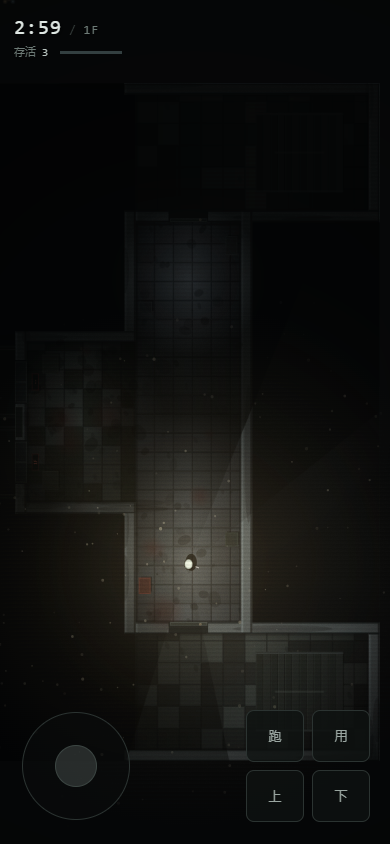
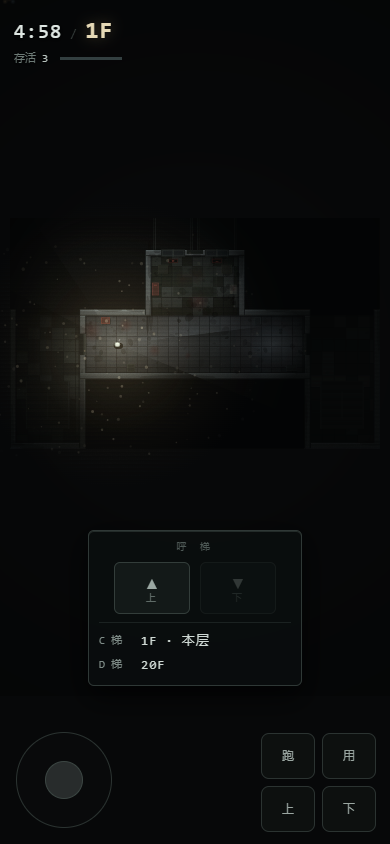
fix(v1.6): 手机版取消竖屏90度旋转，底部独立控制条不再遮挡地形，横屏呼梯面板压缩成横条

diff --git a/styles.css b/styles.css
@@ -30,6 +30,8 @@ html, body {
 
 #app { position: fixed; inset: 0; }
 #stage { position: absolute; inset: 0; width: 100%; height: 100%; display: block; }
+/* 底部控制条高度：画布让出这块，按钮就不会盖住地形 */
+:root { --ctl: 0px; }
 
 /* ---------------- HUD ---------------- */
 #hud {
@@ -125,7 +127,7 @@ body.touch .touchonly { display: block; }
   background: rgba(14, 18, 17, .78); border: 1px solid #2b3331; border-radius: 8px;
 }
 #btns .tb.on { background: rgba(90, 100, 95, .4); color: #e2eae6; }
-body.in-car #btns { display: none; }
+body.inCar #btns { display: none; }
 
 /* ---------------- 结算 ---------------- */
 #overlay {
@@ -184,20 +186,51 @@ body.in-car #btns { display: none; }
 
 /* ---------------- 竖屏 ---------------- */
 @media (max-width: 820px), (orientation: portrait) {
+  /* 竖屏：画面保持正向，底部让出 148px 给操作区 */
+  :root { --ctl: 148px; }
+  #stage { top: 0; left: 0; right: 0; width: 100%; height: calc(100vh - var(--ctl)); }
+
   #clock { font-size: 20px; }
-  #hint { bottom: 150px; font-size: 11px; }
-  #carPanel {
-    right: 8px; top: auto; bottom: 150px; transform: none;
-    width: 168px; padding: 9px;
+  #floorNo { font-size: 24px; }
+
+  /* 提示挪到画布上沿，别占操作区 */
+  #hint {
+    bottom: auto; top: 62px; left: 50%; transform: translateX(-50%);
+    max-width: 92vw; font-size: 11px;
   }
-  #carFloors { gap: 4px; }
-  #carFloors .cf { height: 26px; font-size: 10px; }
+
+  /* 摇杆 / 按键全部落进底部控制条 */
+  #joy { left: 16px; bottom: 16px; width: 96px; height: 96px; }
+  #joy i { width: 38px; height: 38px; margin: -19px 0 0 -19px; }
+  #btns {
+    right: 14px; bottom: 12px;
+    grid-template-columns: repeat(2, 54px); gap: 7px;
+  }
+  #btns .tb { height: 46px; font-size: 12px; }
+
+  /* 面板也放进控制条 */
+  #callPanel, #stairPanel {
+    left: 50%; transform: translateX(-50%);
+    bottom: calc(var(--ctl) + 8px);
+  }
+  #carPad { left: 16px; bottom: 12px; width: 112px; height: 112px; }
+  #carPad .cpad { width: 36px; height: 36px; font-size: 13px; }
+  #carPad [data-cm="up"] { left: 38px; }
+  #carPad [data-cm="down"] { left: 38px; }
+  #carPad [data-cm="left"] { top: 38px; }
+  #carPad [data-cm="right"] { top: 38px; }
+
+  #carPanel {
+    right: 8px; top: auto; bottom: calc(var(--ctl) + 8px); transform: none;
+    width: 172px; padding: 9px;
+    max-height: calc(100vh - var(--ctl) - 20px); overflow: auto;
+  }
 }
 
 
 /* ---------- 呼梯面板（靠近电梯出现） ---------- */
 #callPanel {
-  position: absolute; left: 50%; transform: translateX(-50%); bottom: 132px;
+  position: absolute; left: 50%; transform: translateX(-50%); bottom: calc(var(--ctl) + 132px);
   width: 214px; padding: 8px 10px 9px;
   background: rgba(10, 13, 13, .92);
   border: 1px solid #2f3836; border-radius: 6px;
@@ -262,7 +295,7 @@ body.in-car #btns { display: none; }
 
 /* ---------- 楼梯面板 ---------- */
 #stairPanel {
-  position: absolute; left: 50%; transform: translateX(-50%); bottom: 132px;
+  position: absolute; left: 50%; transform: translateX(-50%); bottom: calc(var(--ctl) + 132px);
   display: flex; gap: 10px; padding: 9px 12px;
   background: rgba(10, 13, 13, .92);
   border: 1px solid #2f3836; border-radius: 6px;
@@ -302,3 +335,60 @@ body.inCar #joy { display: none; }
 #carPad [data-cm="down"] { left: 45px; bottom: 0; }
 #carPad [data-cm="left"] { left: 0; top: 45px; }
 #carPad [data-cm="right"] { right: 0; top: 45px; }
+
+
+/* ---------------- 竖屏收尾（必须放最后，覆盖默认面板定位） ---------------- */
+@media (max-width: 820px), (orientation: portrait) {
+  body #callPanel, body #stairPanel {
+    left: 50%; transform: translateX(-50%);
+    bottom: calc(var(--ctl) + 10px);
+  }
+  body #carPanel {
+    right: 8px; top: auto; bottom: calc(var(--ctl) + 10px); transform: none;
+  }
+  body #hint { bottom: auto; top: 62px; }
+
+  /* 轿厢方向键也必须在竖屏控制条里（后面默认规则会覆盖，所以这里提权） */
+  body #carPad { left: 16px; bottom: 14px; width: 112px; height: 112px; }
+  #carPad .cpad { width: 36px; height: 36px; font-size: 13px; }
+  body #carPad [data-cm="up"], body #carPad [data-cm="down"] { left: 38px; }
+  body #carPad [data-cm="left"], body #carPad [data-cm="right"] { top: 38px; }
+}
+
+
+/* ---------------- 横屏小屏 ---------------- */
+@media (max-height: 520px) {
+  :root { --ctl: 104px; }
+  #stage { top: 0; left: 0; right: 0; width: 100%; height: calc(100vh - var(--ctl)); }
+  #hint { bottom: auto; top: 54px; left: 50%; transform: translateX(-50%); font-size: 11px; }
+  #joy { left: 12px; bottom: 8px; width: 88px; height: 88px; }
+  #joy i { width: 34px; height: 34px; margin: -17px 0 0 -17px; }
+  #btns { right: 12px; bottom: 6px; grid-template-columns: repeat(2, 50px); gap: 6px; }
+  #btns .tb { height: 42px; font-size: 12px; }
+  body #callPanel, body #stairPanel { bottom: calc(var(--ctl) + 8px); }
+  #carPad { left: 12px; bottom: 6px; width: 100px; height: 100px; }
+  #carPad .cpad { width: 32px; height: 32px; font-size: 12px; }
+  #carPad [data-cm="up"], #carPad [data-cm="down"] { left: 34px; }
+  #carPad [data-cm="left"], #carPad [data-cm="right"] { top: 34px; }
+  body #carPanel { bottom: calc(var(--ctl) + 8px); max-height: calc(100vh - var(--ctl) - 12px); overflow: auto; }
+
+  /* 横屏空间矮：呼梯面板压成一条横的，塞进控制条中间，别盖住地图 */
+  body #callPanel {
+    left: 50%; transform: translateX(-50%);
+    bottom: 8px; width: auto; max-width: 62vw;
+    display: flex; align-items: center; gap: 10px;
+    padding: 6px 10px;
+  }
+  #callPanel .cpTitle { display: none; }
+  #callPanel .cpBtns { margin: 0; gap: 6px; }
+  #callPanel .cpArrow { width: 46px; height: 40px; font-size: 15px; }
+  #callPanel .cpArrow span { font-size: 9px; letter-spacing: 1px; }
+  #callPanel .cpReads { border-top: none; padding-top: 0; display: flex; gap: 12px; }
+  #callPanel .cpReadRow { padding: 0; }
+  #callPanel .cpName { width: auto; }
+  #callPanel .cpRead { font-size: 12px; }
+
+  body #stairPanel { bottom: 8px; padding: 6px 10px; gap: 8px; }
+  #stairPanel .stBtn { width: 62px; height: 40px; font-size: 15px; }
+  #stairPanel .stBtn span { font-size: 9px; }
+}

diff --git a/js/render.js b/js/render.js
@@ -90,8 +90,9 @@ var Render = (function () {
     } else {
       b = { x: g.minX, y: g.viewMinY, w: g.width, h: g.viewHeight };
     }
-    var rotate = H > W * 1.12;
-    var availW = W - 20, availH = H - 20;
+    /* 竖屏也不再旋转画面：楼道永远是同一个朝向 */
+    var rotate = false;
+    var availW = W - (W < 640 ? 8 : 20), availH = H - (H < 640 ? 8 : 20);
     var s = rotate ? Math.min(availH / b.w, availW / b.h) : Math.min(availW / b.w, availH / b.h);
     view = {
       s: s,

diff --git a/js/config.js b/js/config.js
@@ -9,7 +9,7 @@
 
 var CFG = {
   /* ---------- 版本 ---------- */
-  VERSION: "v1.5",
+  VERSION: "v1.6",
   TITLE: "电梯公寓大逃杀 2",
 
   /* ---------- 楼体（★ 与美术/版面直接相关） ---------- */

diff --git a/DEV.md b/DEV.md
@@ -141,6 +141,15 @@ KILLER.thinkSec: 0.22   // 决策间隔
 - 进轿厢时给 `<body>` 加 `inCar` 类，`styles.css` 用它隐藏摇杆（`body.inCar #joy{display:none}`）。
 - 想改键位/大小：`styles.css` 的 `#carPad` 与 `.cpad`。
 
+## 1.35 移动端布局（v1.6）
+
+- `styles.css` 顶部有一个变量 `:root{--ctl:0px}`，竖屏媒体查询里改成 `148px`，横屏小屏 `104px`。
+- 画布尺寸跟着它走：`#stage{ height: calc(100vh - var(--ctl)) }`。**注意** `#stage` 上有 `height:100%`，只改 `inset` 是无效的，必须显式写 height。
+- 所有浮层都用 `bottom: calc(var(--ctl) + N)` 定位，保证落在操作条里。
+- 面板的默认规则写在文件靠后，所以竖屏覆盖要用更高优先级（`body #callPanel`），或者把覆盖块放到文件最后。
+- 旋转已关闭：`render.js` 的 `layout()` 里 `var rotate = false;`（代码保留，想恢复改回去即可）。
+- 进轿厢时 JS 给 `<body>` 加 `inCar`（驼峰），CSS 里请用 `body.inCar`。
+
 ## 2. 想改难度：只动这 5 个
 
 ```js

diff --git a/README.md b/README.md
@@ -14,6 +14,14 @@
 
 ---
 
+## v1.6 变更（手机版）
+
+- **取消竖屏 90° 旋转**：手机上画面和电脑一样是正的，楼道永远同一个朝向。
+- **控制区独立**：竖屏底部留出 148px、横屏小屏留出 104px 作为操作条，画布不再被按钮压住；摇杆、四个按键、轿厢方向键、呼梯/楼梯面板全部落在操作条里。
+- **提示**改成画布上沿的一行小字，不再占用地形。
+- 横屏空间矮的时候，呼梯面板会压成一条横杠（`▲ ▼ | C 1F·本层  D 20F`）塞进操作条中间。
+- 修掉了 `body.in-car` / `body.inCar` 类名不一致导致「轿厢里按键没藏起来」的老问题。
+
 ## v1.5 变更
 
 - **电梯口的互动细节**：
